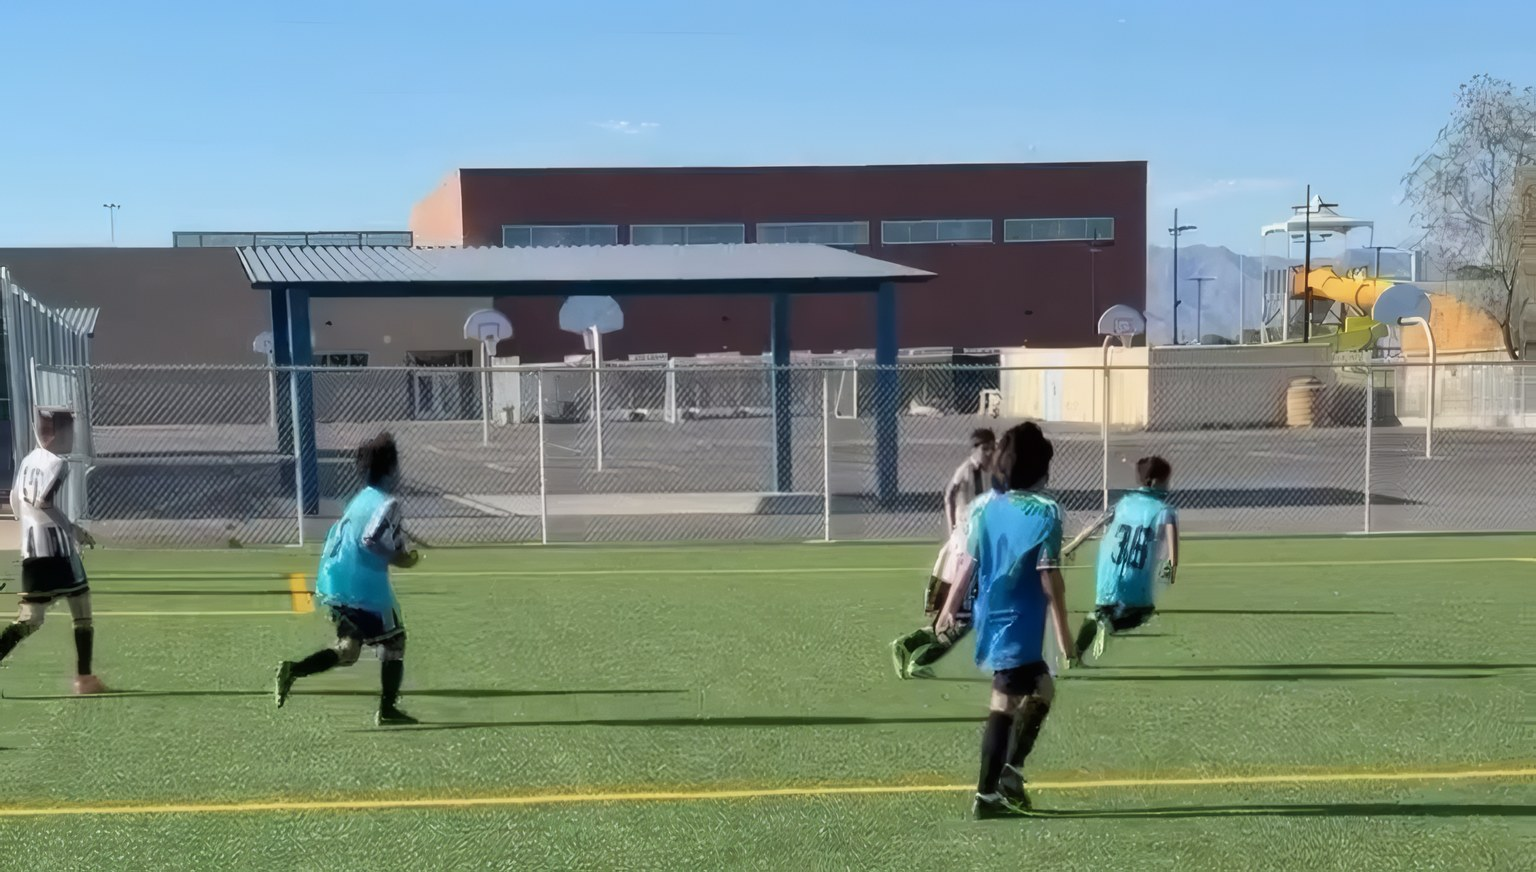
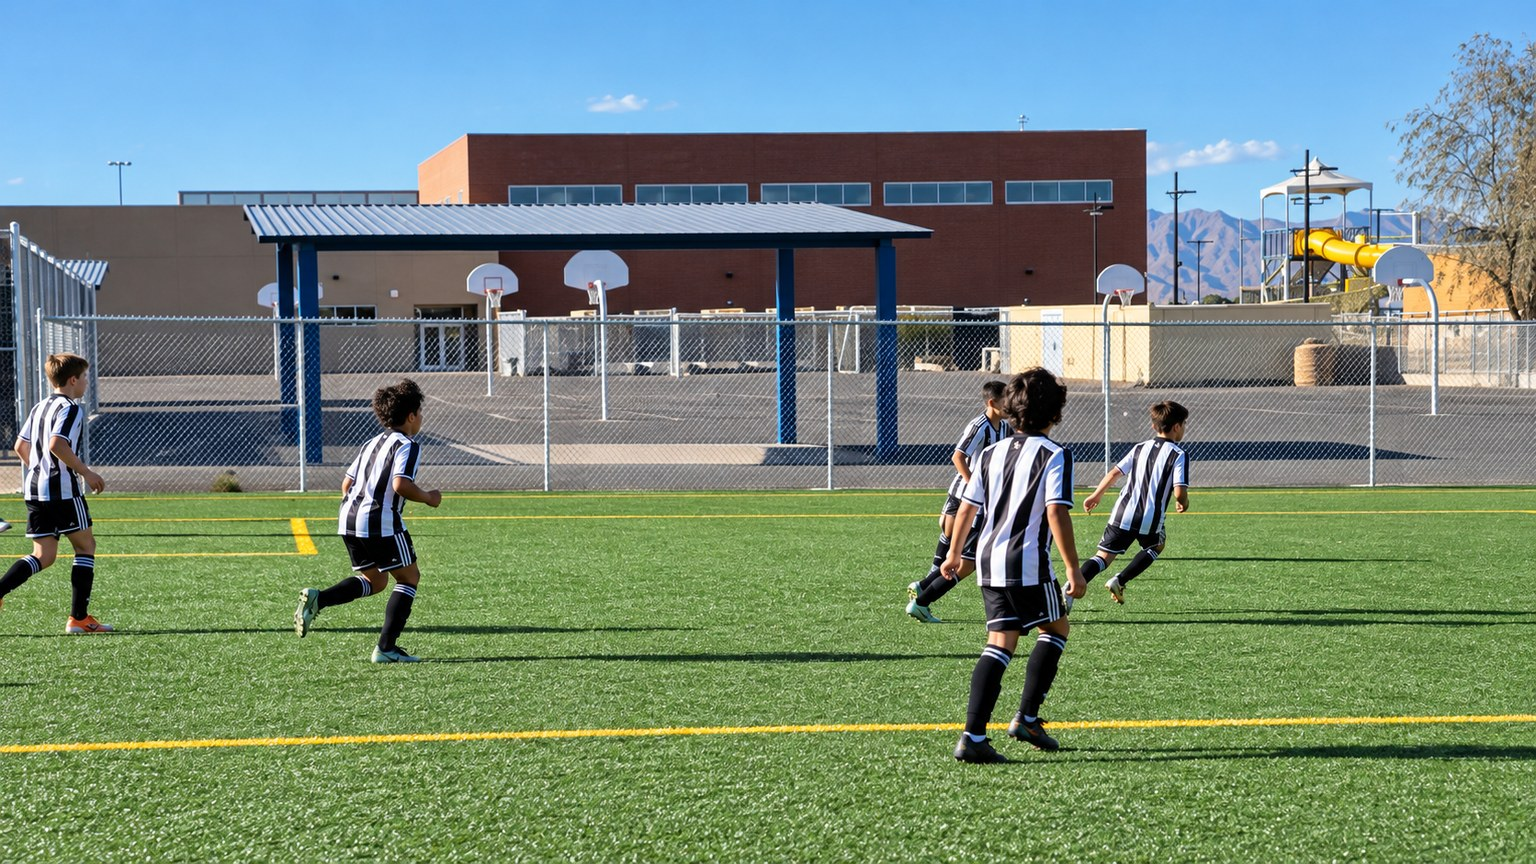
Foto de la sede rehecha con ChatGPT (nítida, uniforme oficial)

diff --git a/index.html b/index.html
@@ -164,8 +164,8 @@ footer{margin-top:56px;color:var(--muted);font-size:14px;border-top:1px solid va
       </div>
       <ul>
         <li>La foto actual no parece Garside Junior (palmeras y paisaje tipo Miami). Un padre de Las Vegas que conoce la escuela lo nota.</li>
-        <li>La propuesta es un cuadro real del video de cierre de los tryouts de Las Vegas (cancha con la escuela al fondo), mejorado con Upscayl.</li>
-        <li>Pendiente por confirmar que esa cancha es Garside. Lo ideal: una foto propia de Garside tomada por el videógrafo nuevo, con jugadores con el uniforme de Juventus.</li>
+        <li>La propuesta parte de un cuadro real del video de cierre de los tryouts de Las Vegas (cancha con la escuela al fondo). Como el video es de baja resolución, se rehízo con ChatGPT: misma escena y encuadre, nítida y con los jugadores con el uniforme oficial en vez de petos.</li>
+        <li>Pendiente por confirmar que esa cancha es Garside. Más adelante se puede reemplazar por una foto propia de Garside tomada por el videógrafo nuevo.</li>
       </ul>
     </article>
     <article class="foto">
